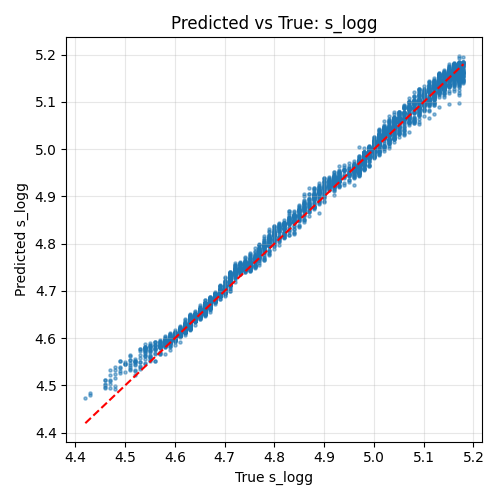
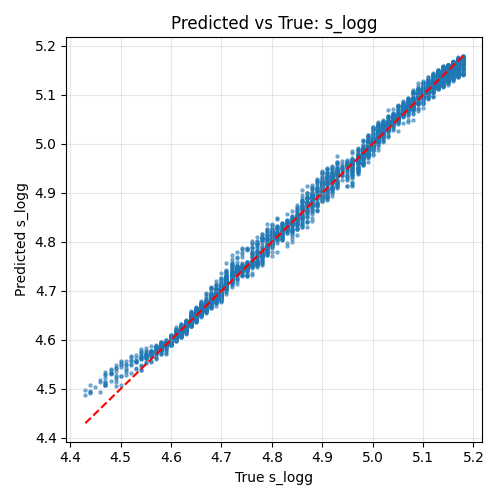
new updates: fixed radius units and noise (i think)

diff --git a/data/data_generation.py b/data/data_generation.py
@@ -41,14 +41,14 @@ def plot_spectrum_stages(
     pair_key,
     wv_p, flux_p_broad, flux_p_norm,
     wv_s, flux_s_broad, flux_s_norm,
-    wv_pix, flux_p_noisy, flux_s_noisy,
+    wv_pix, flux_p, flux_s,
     output_dir="spectrum_plots"
 ):
     os.makedirs(output_dir, exist_ok=True)
 
     flux_comb_broad = flux_p_broad + flux_s_broad
     flux_comb_norm  = flux_p_norm  + flux_s_norm
-    flux_comb_noisy = flux_p_noisy + flux_s_noisy
+    flux_comb = flux_p + flux_s
 
     fig, axs = plt.subplots(3, 1, figsize=(12, 10), sharex=True)
     plt.subplots_adjust(hspace=0.1)
@@ -63,13 +63,13 @@ def plot_spectrum_stages(
     axs[1].plot(wv_p, flux_comb_norm, linewidth=2)
     axs[1].set_title("Normalized")
 
-    axs[2].plot(wv_pix, flux_p_noisy, alpha=0.7)
-    axs[2].plot(wv_pix, flux_s_noisy, alpha=0.7)
-    axs[2].plot(wv_pix, flux_comb_noisy, linewidth=2)
-    axs[2].set_title("Pixelized (Noisy)")
+    axs[2].plot(wv_pix, flux_p, alpha=0.7)
+    axs[2].plot(wv_pix, flux_s, alpha=0.7)
+    axs[2].plot(wv_pix, flux_comb, linewidth=2)
+    axs[2].set_title("Pixelized")
     axs[2].set_xlabel("Wavelength [Å]")
 
-    filepath = os.path.join(output_dir, f"{pair_key}_noisy_stages.png")
+    filepath = os.path.join(output_dir, f"{pair_key}_stages.png")
     plt.savefig(filepath, dpi=300, bbox_inches="tight")
     plt.close()
 
@@ -100,10 +100,10 @@ def process_binary(pair_key, pair_data, mist_file, base_dir, resolution=30000):
         )
 
         # Step 3: Pixelize
-        wv_p_pix, _, flux_p_noisy, _ = volga.pixelize(
+        wv_p_pix, flux_p, _ = volga.pixelize(
             wv_p, flux_p_norm
         )
-        wv_s_pix, _, flux_s_noisy, _ = volga.pixelize(
+        wv_s_pix, flux_s, _ = volga.pixelize(
             wv_s, flux_s_norm
         )
 
@@ -111,12 +111,12 @@ def process_binary(pair_key, pair_data, mist_file, base_dir, resolution=30000):
             raise ValueError("Pixel wavelength grids do not match")
 
         # Step 4: Combine
-        flux_comb_noisy = flux_p_noisy + flux_s_noisy
-        flux_comb_noisy /= np.median(flux_comb_noisy)
+        flux_comb = flux_p + flux_s
+        flux_comb /= np.median(flux_comb)
 
         # Step 5: Output directories
-        noisy_dir = os.path.join(base_dir, "noisy_spectrum")
-        os.makedirs(noisy_dir, exist_ok=True)
+        clean_dir = os.path.join(base_dir, "clean_spectrum")
+        os.makedirs(clean_dir, exist_ok=True)
 
         # added rounding to the proper decimal not just "cutting" off
         filename_base = (
@@ -127,8 +127,8 @@ def process_binary(pair_key, pair_data, mist_file, base_dir, resolution=30000):
 
 
         np.savetxt(
-            os.path.join(noisy_dir, f"{filename_base}.txt"),
-            np.column_stack((wv_p_pix, flux_p_noisy, flux_s_noisy, flux_comb_noisy)),
+            os.path.join(clean_dir, f"{filename_base}.txt"),
+            np.column_stack((wv_p_pix, flux_p, flux_s, flux_comb)),
             header="Wavelength  Flux_Primary  Flux_Secondary  Flux_Combined"
         )
 

diff --git a/ANN/CSV_Conversion.py b/ANN/CSV_Conversion.py
@@ -1,0 +1,61 @@
+import os
+import pandas as pd
+import numpy as np
+
+def create_dataset_from_dir(data_dir):
+    rows = []
+    for fname in os.listdir(data_dir):
+        if not fname.startswith("spec_") or not fname.endswith(".txt"):
+            continue
+
+        # spec_{p_teff}_{s_teff}_{p_logg}_{s_logg}_{p_radius}_{s_radius}.txt
+        #filename_base = (
+        # filename_base = (
+        #     f"spec_{int(p['Teff'])}_{int(s['Teff'])}_"
+        #     f"{round(float(p['gravity']), 2):.2f}_{round(float(s['gravity']), 2):.2f}_"
+        #     f"{round(p['radius'], 3)}_{round(s['radius'], 3)}"
+        # )
+
+
+        name = fname.replace(".txt", "")
+        parts = name.split("_")
+
+        if len(parts) != 7:
+            print(f"Skipping malformed filename: {fname}")
+            continue
+
+        _, p_teff, s_teff, p_logg, s_logg, p_radius, s_radius = parts
+        params = {
+            "p_teff": float(p_teff),
+            "s_teff": float(s_teff),
+            "p_logg": float(p_logg),
+            "s_logg": float(s_logg),
+            "p_radius": float(p_radius),
+            "s_radius": float(s_radius),
+        }
+
+        filepath = os.path.join(data_dir, fname)
+
+        df = pd.read_csv(filepath, sep=r"\s+", comment="#", header=None, engine="python")
+        df.columns = ["wv", "flux_p", "flux_s", "flux_combined"]
+
+        flux_combined = df["flux_combined"].values
+        row = {**params}
+
+        for i, flux in enumerate(flux_combined):
+            row[f"flux_{i}"] = flux
+
+        rows.append(row)
+
+    return pd.DataFrame(rows)
+
+
+clean_dir = "/data/niaycarr/clean_spectrum"
+clean_dataset = create_dataset_from_dir(clean_dir)
+clean_dataset.to_csv("clean_stellar_dataset.csv", index=False)
+
+
+print(f"Saved clean dataset with shape: {clean_dataset.shape}")
+print(clean_dataset.head(1).T)
+
+

diff --git a/data/data_synthesization.py b/data/data_synthesization.py
@@ -198,30 +198,6 @@ class VolgaInterpolator(Volga):
         interp_func = interp1d(wavelength, flux, bounds_error=False, fill_value=np.nan)
         interp_flux = interp_func(koi_wave)
 
-        #edit 2/2/26 202 - 215
-        snr = 25
-        noise_std = 1.0 / snr  # 0.04
+        #edit remove noise in synthesization step entirely
 
-        # noise = np.random.normal(
-        #     loc=0.0,
-        #     scale=noise_std,
-        #     size=interp_flux.shape
-        # )
-
-        # return koi_wave, interp_flux, noise, koi_err
-
-        noise = np.random.normal(
-            loc=0.0,
-            scale=noise_std,
-            size=interp_flux.shape
-        )
-
-        noisy_flux = interp_flux * (1 + noise)
-
-        return koi_wave, interp_flux, noisy_flux, koi_err
-
-
-        # noise = np.random.uniform(-1, 1, interp_flux.shape) * (1 / 50)
-        # noisy_flux = interp_flux + noise
-        # return koi_wave, interp_flux, noisy_flux, koi_err
-
+        return koi_wave, interp_flux, koi_err

diff --git a/ANN/ANN2.py b/ANN/ANN2.py
@@ -14,7 +14,7 @@ base_dir = "/data/niaycarr/ANN-for-Stellar-Label-Determination/ANN"
 output_dir = os.path.join(base_dir, "results")
 os.makedirs(output_dir, exist_ok=True)
 
-csv_path = "noisy_stellar_dataset.csv"
+csv_path = "clean_stellar_dataset.csv"
 wavelength_file = "Koi1422_HET.txt"  # for wavelength grid reference, optional
 
 # ========== LABELS ==========
@@ -57,6 +57,19 @@ def normalize_synthetic(flux_primary, flux_secondary):
 
 # Normalize each combined flux row by its median (simulate primary star normalization)
 X = X / np.median(X, axis=1, keepdims=True)
+
+def apply_multiplicative_noise(X, snr=100):
+    """
+    Apply multiplicative Gaussian noise assuming constant SNR.
+    F_noisy = F * (1 + N(0, 1/SNR))
+    """
+    sigma = 1.0 / snr
+    noise = np.random.normal(loc=0.0, scale=sigma, size=X.shape)
+    return X * (1.0 + noise)
+
+# Example: SNR=100
+X = apply_multiplicative_noise(X, snr=100)
+
 
 # ========== 4. SCALE DATA ==========
 x_scaler = StandardScaler()
